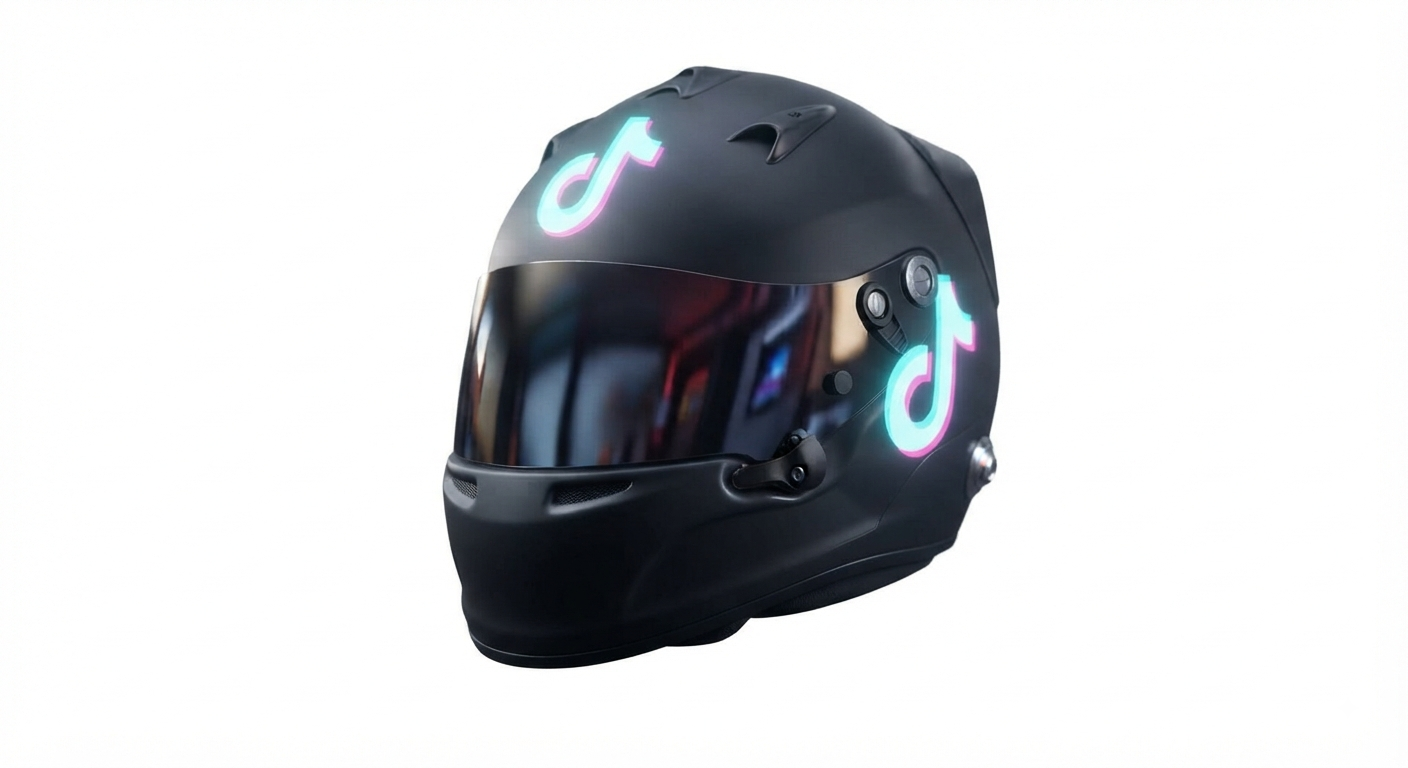
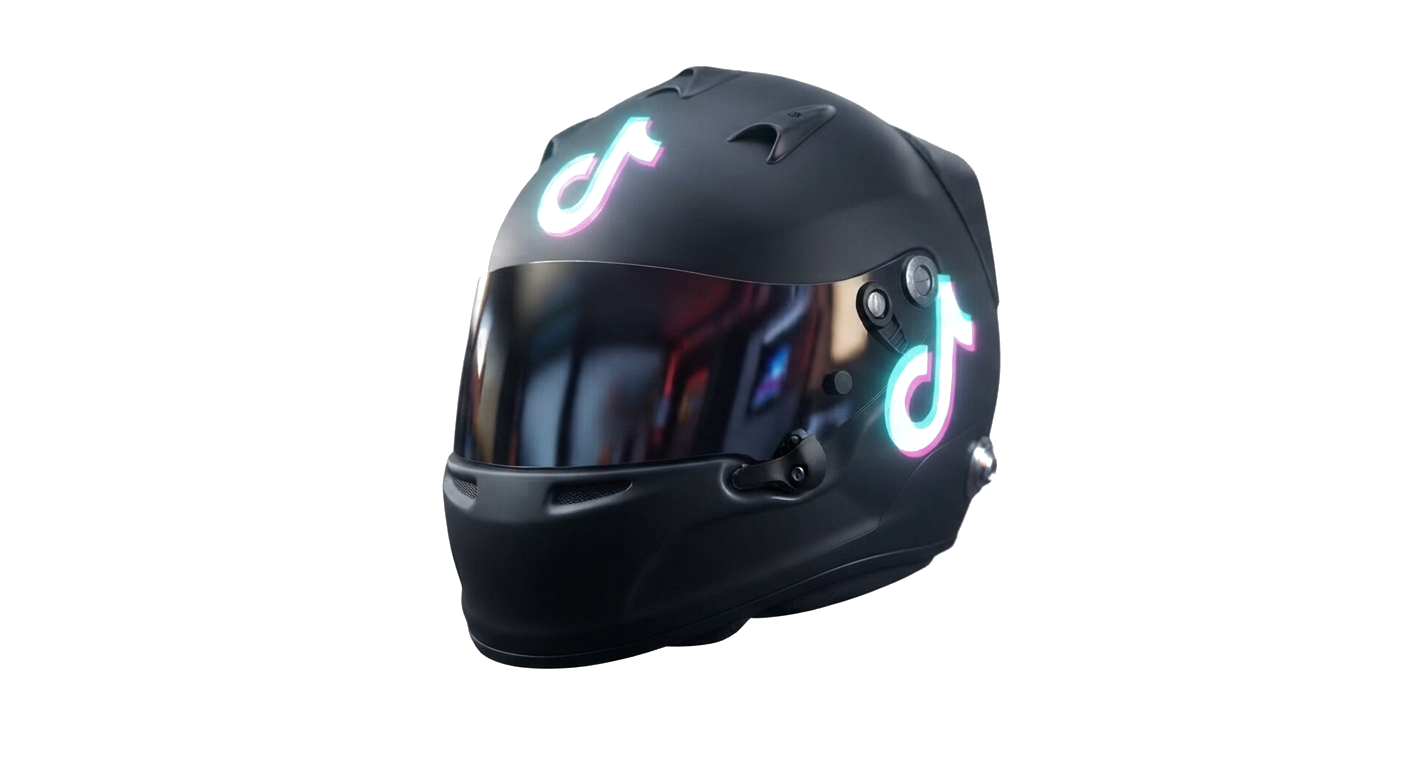
fix: remover fundo branco dos capacetes (canal alpha)
As imagens originais eram RGB sem transparência. Aplicado threshold
para criar máscara alpha: pixels brancos → transparentes, pixels do
capacete → opacos com anti-aliasing nas bordas.

Resultado: 4 capacetes com ~76% de pixels transparentes, prontos para
flutuar sobre o fundo escuro do rodapé.

Changed region(s): [[0.625, 0.375, 0.6875, 0.5938], [0.375, 0.1562, 0.4688, 0.3125]]

diff --git a/scripts/remove-bg-helmets.py b/scripts/remove-bg-helmets.py
@@ -1,0 +1,79 @@
+#!/usr/bin/env python3
+"""
+Remove fundo branco de imagens de capacetes e salva como PNG com canal alpha.
+Usa thresholding adaptativo: pixels próximos do branco viram transparentes.
+"""
+from PIL import Image, ImageChops
+import os
+
+def remove_white_bg(input_path, output_path, threshold=240):
+    """Remove fundo branco de uma imagem.
+    
+    Args:
+        input_path: caminho da imagem original (RGB)
+        output_path: caminho de saída (PNG com alpha)
+        threshold: pixels com R,G,B > threshold são considerados brancos
+    """
+    img = Image.open(input_path).convert("RGB")
+    
+    # Cria máscara: pixels brancos = 0 (transparente), outros = 255 (opaco)
+    mask = Image.new("L", img.size, 0)
+    pixels = img.load()
+    mask_pixels = mask.load()
+    
+    width, height = img.size
+    for y in range(height):
+        for x in range(width):
+            r, g, b = pixels[x, y]
+            # Se todos os canais estão acima do threshold, é fundo branco
+            if r > threshold and g > threshold and b > threshold:
+                mask_pixels[x, y] = 0  # transparente
+            else:
+                # Quanto mais escuro o pixel, mais opaco
+                # Usa a média invertida como opacidade
+                brightness = (r + g + b) / 3
+                if brightness > threshold - 20:
+                    # Pixel muito claro mas não branco puro — semi-transparente
+                    # (borda do capacete com anti-aliasing)
+                    alpha = int(255 * (1 - (brightness - (threshold - 20)) / 20))
+                    mask_pixels[x, y] = max(0, min(255, alpha))
+                else:
+                    mask_pixels[x, y] = 255  # opaco
+    
+    # Aplica máscara como canal alpha
+    img_rgba = img.convert("RGBA")
+    img_rgba.putalpha(mask)
+    
+    # Salva como PNG (preserva canal alpha)
+    img_rgba.save(output_path, "PNG")
+    
+    # Estatísticas
+    total = width * height
+    transparent = sum(1 for y in range(height) for x in range(width) if mask_pixels[x, y] == 0)
+    print(f"  {os.path.basename(output_path)}: {transparent}/{total} pixels transparent ({100*transparent/total:.1f}%)")
+    
+    return output_path
+
+def main():
+    helmets = [
+        ("public/social-helmet-youtube.png", "public/social-helmet-youtube.png"),
+        ("public/social-helmet-instagram.png", "public/social-helmet-instagram.png"),
+        ("public/social-helmet-tiktok.png", "public/social-helmet-tiktok.png"),
+        ("public/social-helmet-facebook.png", "public/social-helmet-facebook.png"),
+    ]
+    
+    print("Removendo fundo branco dos capacetes...")
+    for src, dst in helmets:
+        # Backup temporário
+        backup = src + ".bak"
+        os.rename(src, backup)
+        remove_white_bg(backup, dst, threshold=235)
+        os.remove(backup)
+    
+    print("\nVerificando resultados...")
+    for _, dst in helmets:
+        img = Image.open(dst)
+        print(f"  {os.path.basename(dst)}: mode={img.mode}, has_alpha={'A' in img.mode}")
+
+if __name__ == "__main__":
+    main()
